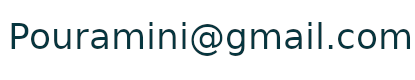
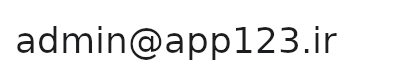
commit

Changed region(s): [[0.0289, 0.275, 1.0, 0.75], [0.347, 0.275, 0.3759, 0.325]]

diff --git a/index.md b/index.md
@@ -52,10 +52,10 @@ img: ":home-heading.jpg"
 رایانامه:
 <a href="javascript:void(0);" 
 onclick="copyToClipboard('pouramini' + '@' + this.dataset.domain + '.' + 'com', 'آدرس کپی شد'); window.location.href = 'mailto:' + this.dataset.name + '@' + this.dataset.domain + '.' + this.dataset.tld; return false;"
-data-name="pouramini"
-data-domain="gmail"
-data-tld="com"
-id="copytoclipboard" data-toggle="tooltip" data-domain="gmail" data-placement="top" 
+data-name="admin"
+data-domain="app123"
+data-tld="ir"
+id="copytoclipboard" data-toggle="tooltip" data-domain="app123" data-placement="top" 
 title="" class="hover-effect-big" data-original-title="کپی کردن آدرس" dideo-checked="true">
 ![email](:email.png){:height="90px" class="email" width="160px"}
 </a>

diff --git a/fa/tabs/about.md b/fa/tabs/about.md
@@ -43,10 +43,10 @@ img: ":about.jpg"
 رایانامه:
 <a href="javascript:void(0);" 
 onclick="copyToClipboard('pouramini' + '@' + this.dataset.domain + '.' + 'com', 'آدرس کپی شد'); window.location.href = 'mailto:' + this.dataset.name + '@' + this.dataset.domain + '.' + this.dataset.tld; return false;"
-data-name="pouramini"
-data-domain="gmail"
-data-tld="com"
-id="copytoclipboard" data-toggle="tooltip" data-domain="gmail" data-placement="top" 
+data-name="admin"
+data-domain="app123"
+data-tld="ir"
+id="copytoclipboard" data-toggle="tooltip" data-domain="app123" data-placement="top" 
 title="" class="hover-effect-big" data-original-title="کپی کردن آدرس" dideo-checked="true">
 ![email](:email.png){:height="90px" class="email" width="160px"}
 </a>
